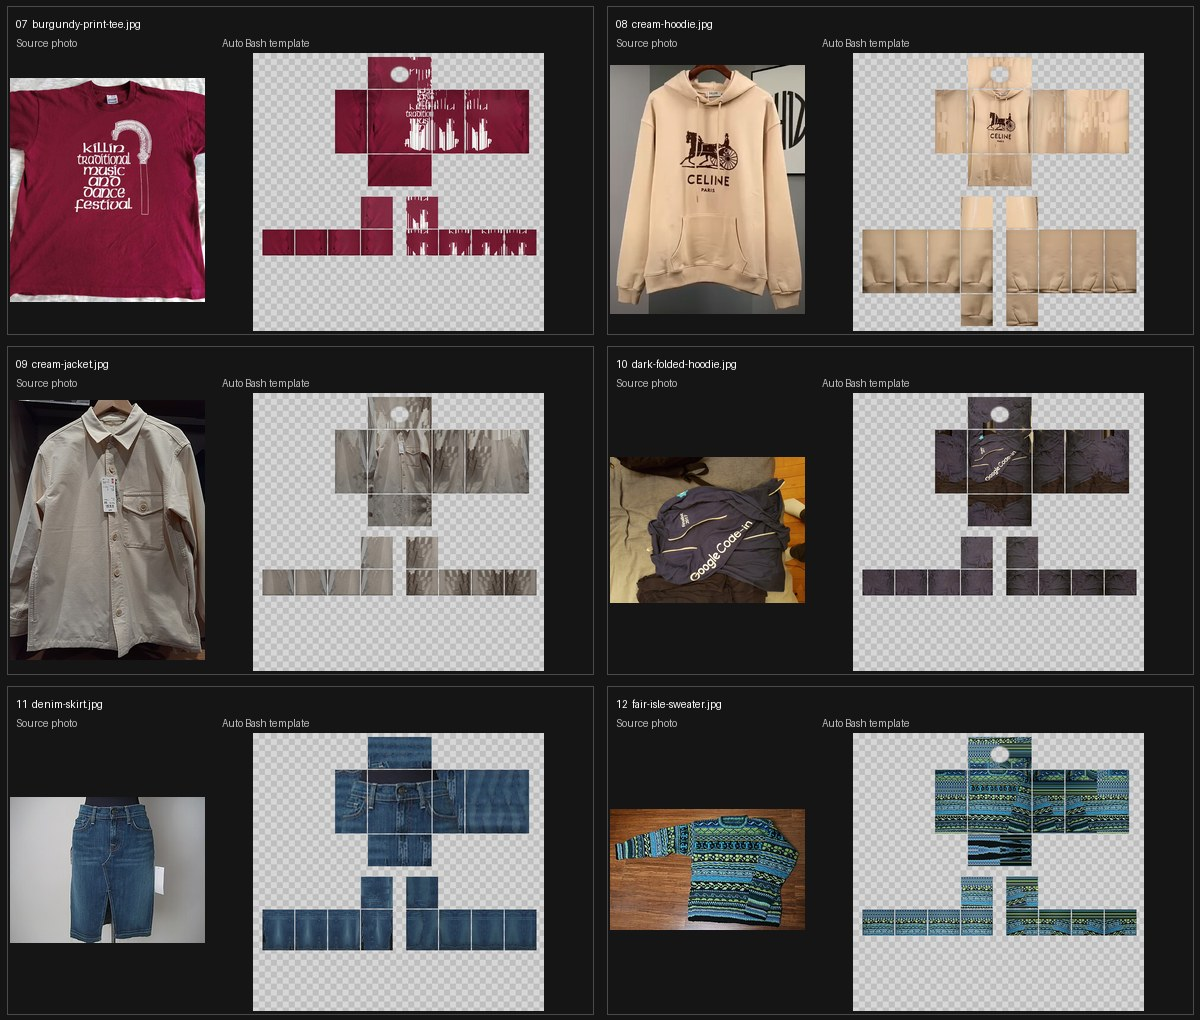
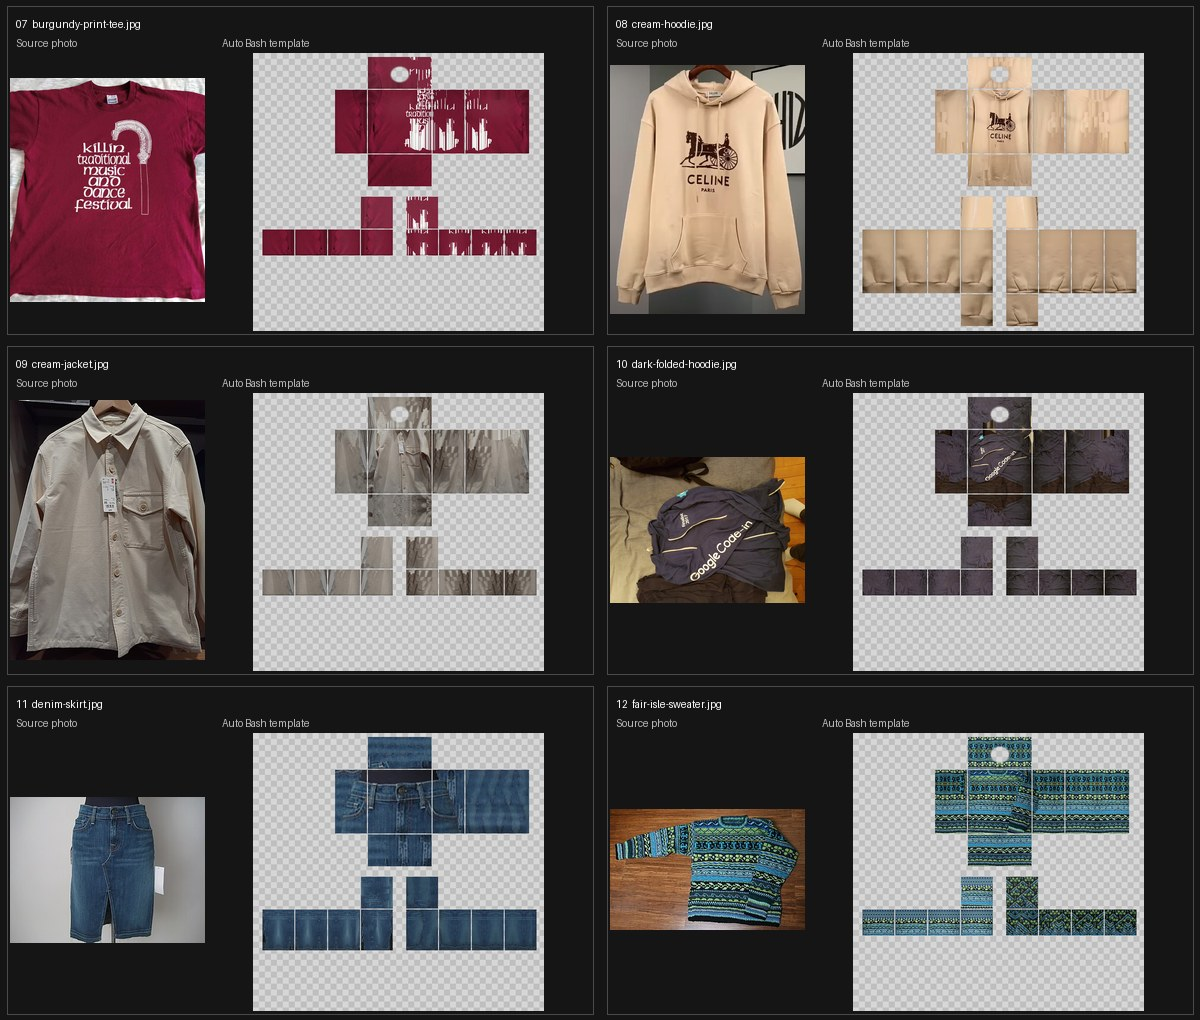
Preserve photographed patterns on inferred shirt panels

Changed region(s): [[0.7708, 0.699, 0.9558, 0.9422]]

diff --git a/backend/shirt_wrap.py b/backend/shirt_wrap.py
@@ -1,0 +1,142 @@
+"""Continue observed shirt fabric around inferred torso faces."""
+
+import cv2
+import numpy as np
+
+from autobash_core.autobash import apply_shading
+
+from .fabric_pattern import reflected_indices
+from .garment_parts import crop_silhouette, top_parts
+from .photos import PhotoError
+from .placement import FACES, LIMBS, FabricPatches, clone_cap, limb_faces, photograph, projected_piece
+from .quality import face_view
+
+DETAIL_ROWS = slice(24, 110)
+INFERRED_TORSO = ("left", "back", "right")
+
+
+def horizontal_detail(face: np.ndarray) -> np.ndarray:
+    return np.abs(np.diff(face[..., :3].astype(np.float32), axis=1)).mean(axis=(1, 2))
+
+
+def choose_swatch(front: np.ndarray) -> tuple[np.ndarray, int] | None:
+    """Find a sustained textured strip clear of the collar and placket."""
+    width = front.shape[1]
+    strips = (front[:, width // 9:width * 7 // 16], front[:, width * 9 // 16:width * 8 // 9])
+    candidates = []
+    for strip in strips:
+        opaque = (strip[..., 3] == 255)
+        supported = (opaque.mean(axis=1) >= 0.94)
+        visible = supported[DETAIL_ROWS]
+        if visible.mean() < 0.87:
+            continue
+        detail = horizontal_detail(strip[DETAIL_ROWS][visible])
+        if np.median(detail) >= 8 and (detail >= 6).mean() >= 0.72:
+            candidates.append((float(np.median(detail)), strip, supported))
+    if len(candidates) != len(strips):
+        return None
+    # Both sides show texture, so a solitary chest graphic cannot qualify as
+    # a print throughout the cloth. Keep the richer observed strip as donor.
+    _, strip, valid = max(candidates, key=lambda item: item[0])
+    top, bottom = np.flatnonzero(valid)[[0, -1]]
+    top = max(top, 28)  # Keep the photographed collar on its front face.
+    strip = strip[top:bottom + 1]
+    try:
+        if not (strip[..., 3] == 255).all():
+            strip = FabricPatches(strip).fill(strip)
+    except PhotoError:
+        return None
+    return strip, int(top)
+
+
+def replace_collapsed_sleeves(replacement: np.ndarray, template: np.ndarray,
+                             photo: np.ndarray, mask: np.ndarray, scale: float) -> set[tuple[str, str]]:
+    sizes = {limb: int(np.count_nonzero(face_view(template, limb, "front")[..., 3].any(axis=1)))
+             for limb in LIMBS}
+    # Full-length arms already have an independent cuff-fitting pass.
+    if not all(32 <= height <= 64 for height in sizes.values()):
+        return set()
+    try:
+        pixels, silhouette = crop_silhouette(photo.copy(), mask)
+        parts = top_parts(pixels, silhouette, "t_shirt", back=False, flat_tshirt=False)
+    except PhotoError:
+        return set()
+    repaired = set()
+    for limb, height in sizes.items():
+        front = face_view(template, limb, "front")[:height]
+        if limb not in parts.pieces or (horizontal_detail(front) < 8).mean() < 0.24:
+            continue
+        fabric = projected_piece(parts.photo, parts.pieces[limb], scale)
+        if (fabric[..., 3] == 255).sum() < 280:
+            continue
+        try:
+            faces = limb_faces(fabric, None, front.shape[1], height)
+            faces["up"] = clone_cap(fabric, faces["front"][0], FACES[limb, "up"][2:], bottom=False)
+        except PhotoError:
+            continue
+        for face, texture in faces.items():
+            target = face_view(replacement, limb, face)
+            target[:len(texture)] = texture
+            repaired.add((limb, face))
+    return repaired
+
+
+def continue_fabric(template: np.ndarray, photo: np.ndarray, mask: np.ndarray,
+                    *, left: int, top: int, scale: float, shading: float) -> None:
+    """Replace collapsed texture on an inferred wrap with same-scale pixel copies."""
+    front = face_view(template, "torso", "front")
+    height, width = front.shape[:2]
+    detail = horizontal_detail(front)[DETAIL_ROWS]
+    if not any(((detail >= 11)
+                & (horizontal_detail(face_view(template, "torso", side))[DETAIL_ROWS]
+                   < np.maximum(2.5, detail * 0.20))).mean() >= 0.28 for side in INFERRED_TORSO):
+        return
+
+    side_width = FACES["torso", "left"][2]
+    inside = cv2.erode(mask.astype(np.uint8), np.ones((5, 5), np.uint8)) > 0
+    photo = photo.copy()
+    photo[..., 3] = inside.astype(np.uint8) * 255
+    projected = photograph(photo, np.eye(2), scale, (side_width - left * scale, -top * scale),
+                            (width + 2 * side_width, height))
+    source = choose_swatch(projected[:, side_width:side_width + width])
+    if source is None:
+        return
+    swatch, first_row = source
+    rows = reflected_indices(np.arange(height) - first_row, len(swatch))
+    reflected = swatch[rows[:, None], reflected_indices(np.arange(2 * swatch.shape[1]), swatch.shape[1])]
+    ring_width = width + 2 * side_width
+    columns = np.arange(ring_width)[None, :] + np.arange(reflected.shape[1])[:, None]
+    columns %= reflected.shape[1]
+    # Fit one continuous texture around the entire inferred band. Using one
+    # column offset keeps the weave constant from shoulder to hem.
+    first, last = front[DETAIL_ROWS, -1, :3], front[DETAIL_ROWS, 0, :3]
+    cost = np.abs(reflected[DETAIL_ROWS, columns[:, 0], :3].astype(float) - first[:, None]).mean(axis=(0, 2))
+    cost += np.abs(reflected[DETAIL_ROWS, columns[:, -1], :3].astype(float) - last[:, None]).mean(axis=(0, 2))
+    band = reflected[:, columns[cost.argmin()]].copy()
+
+    # Keep contiguous visible fabric immediately past the front boundaries.
+    right = projected[:, :side_width]
+    left = projected[:, side_width + width:]
+    for observed, inferred, direction in ((left, band[:, :side_width], 1),
+                                         (right, band[:, -side_width:], -1)):
+        count = 12
+        observed = observed[:, ::direction][:, :count]
+        inferred = inferred[:, ::direction][:, :count]
+        valid = np.logical_and.accumulate(observed[..., 3] == 255, axis=1)
+        inferred[valid] = observed[valid]
+
+    replacement = np.zeros_like(template)
+    offset = 0
+    for side in INFERRED_TORSO:
+        face = face_view(replacement, "torso", side)
+        face[:] = band[:, offset:offset + face.shape[1]]
+        offset += face.shape[1]
+    for face_name, row_start in (("up", 0), ("down", height - FACES["torso", "down"][3])):
+        cap = face_view(replacement, "torso", face_name)
+        cap[:] = band[row_start:row_start + cap.shape[0], side_width:side_width + width]
+        cap[..., 3] = face_view(template, "torso", face_name)[..., 3]
+    repaired = replace_collapsed_sleeves(replacement, template, photo, mask, scale)
+    repaired.update(("torso", side) for side in (*INFERRED_TORSO, "up", "down"))
+    replacement = apply_shading(replacement, shading)
+    for part, face in repaired:
+        face_view(template, part, face)[:] = face_view(replacement, part, face)

diff --git a/backend/test_quality.py b/backend/test_quality.py
@@ -11,6 +11,7 @@ from backend.photos import prepare_cutout
 from backend.placement import CLASSIC_SIZE, FACES
 from backend.processing import inspect
 from backend.quality import blend_seams, face_view, fill_unseen, finish_images, inspect_quality
+from backend.shirt_wrap import continue_fabric
 from backend.worn_shirts import recover_worn_template
 
 SAMPLES = Path(__file__).resolve().parents[1] / "samples"
@@ -38,6 +39,44 @@ class QualityTests(unittest.TestCase):
         seed[:25, :31] = source[:25, :31]
         aligned = pattern_fill(source, seed.shape[:2], 0, seed)
         np.testing.assert_array_equal(aligned[:25, :31], seed[:25, :31])
+
+    def test_pattern_wrap_keeps_the_front_opacity_and_source_pixel_scale(self):
+        rows, columns = np.mgrid[:128, :152]
+        photo = np.full((128, 152, 4), 255, dtype=np.uint8)
+        photo[..., :3] = np.where(((rows % 5 < 2) ^ (columns % 6 < 3))[..., None], 49, 192)
+        photo[34:84, 69:84, :3] = (200, 80, 65)
+        template = sheet()
+        front = face_view(template, "torso", "front")
+        front[:] = photo[:, 12:140]
+        for face in ("left", "back", "right"):
+            face_view(template, "torso", face)[:] = front[:, :1]
+        face_view(template, "torso", "up")[24:40, 48:80, 3] = 0
+        before = template.copy()
+
+        continue_fabric(template, photo, np.ones(photo.shape[:2], dtype=bool),
+                        left=12, top=0, scale=1., shading=0.)
+
+        np.testing.assert_array_equal(front, face_view(before, "torso", "front"))
+        np.testing.assert_array_equal(template[..., 3], before[..., 3])
+        back = face_view(template, "torso", "back")
+        self.assertEqual(set(np.unique(back[..., 0])), {49, 192})
+        np.testing.assert_array_equal(back[36:100, 30:60], back[41:105, 30:60])
+        self.assertEqual(float(np.abs(np.diff(back[40, :, 0].astype(int))).max()), 143.0)
+        self.assertEqual(template[0, 0, 3], 0)
+
+    def test_localized_print_does_not_trigger_pattern_wrap(self):
+        photo = np.full((128, 128, 4), 255, dtype=np.uint8)
+        photo[..., :3] = (20, 34, 90)
+        pattern = np.indices((42, 46)).sum(axis=0) % 2
+        photo[30:72, 41:87, :3] = 40 + 200 * pattern[..., None]
+        template = sheet()
+        face_view(template, "torso", "front")[:] = photo
+        before = template.copy()
+
+        continue_fabric(template, photo, np.ones(photo.shape[:2], dtype=bool),
+                        left=0, top=0, scale=1., shading=0.5)
+
+        np.testing.assert_array_equal(template, before)
 
     def test_edge_blending_preserves_alpha_gutters_and_face_interiors(self):
         image = sheet()

diff --git a/backend/test_shirt_engine.py b/backend/test_shirt_engine.py
@@ -33,14 +33,20 @@ class ShirtEngineTests(unittest.IsolatedAsyncioTestCase):
                 self.assertEqual(front.tobytes(), back.tobytes())
             self.assertEqual(shading, 0.4)
             paths.extend((front_path, back_path))
-            return template, {"lm": {"arms": {"rarm": {"long": True}, "larm": {"long": True}}}}
+            return template, {
+                "mask": np.ones((373, 352), dtype=bool),
+                "lm": {"arms": {"rarm": {"long": True}, "larm": {"long": True}},
+                       "x0": 50, "front_top": 40, "scale": 0.65},
+            }
 
-        with patch.object(autobash, "make_shirt", side_effect=render) as supplied_engine:
+        with (patch.object(autobash, "make_shirt", side_effect=render) as supplied_engine,
+              patch("backend.shirt_engine.continue_fabric") as inferred_wrap):
             events = [json.loads(line) async for line in process_events(
                 "auto", [("front", photo), ("back", photo)], shading=0.4
             )]
 
         supplied_engine.assert_called_once()
+        inferred_wrap.assert_not_called()
         self.assertTrue(all(not path.exists() for path in paths))
         self.assertEqual(events[-1]["type"], "result", events[-1])
         payload = events[-1]["template"]

diff --git a/backend/shirt_engine.py b/backend/shirt_engine.py
@@ -15,6 +15,7 @@ from .garment_parts import crop_silhouette, fitted_top
 from .placement import FACES, LIMBS, limb_textures, place_template
 from .photos import COLOR_PROFILE, PhotoError
 from .quality import face_view, rgba
+from .shirt_wrap import continue_fabric
 from .worn_shirts import recover_worn_template
 
 # The engine loads a shared rembg session lazily. Serialize shirt renders
@@ -122,6 +123,11 @@ def make_core_shirt(front: ShirtPhoto, back: ShirtPhoto | None, shading: float,
         profile = "t_shirt"
     elif fit_product and "mask" in debug:
         profile = fit_product_shape(image, debug["mask"], template, profile, shading, back is not None)
+    landmarks = debug["lm"]
+    if fit_product and back is None and profile != "sleeveless" and "mask" in debug and "scale" in landmarks:
+        continue_fabric(template, np.asarray(image.convert("RGBA")), debug["mask"],
+                        left=landmarks["x0"] + 2, top=landmarks["front_top"],
+                        scale=landmarks["scale"], shading=shading)
     png = BytesIO()
     Image.fromarray(template).save(png, format="PNG", icc_profile=COLOR_PROFILE.tobytes())
     return png.getvalue(), profile

diff --git a/samples/out/report.md b/samples/out/report.md
@@ -2,7 +2,7 @@
 
 Auto Bash attempted all 30 photos through the same pipeline as the web app and returned a template for each. **3 of 30** reached at least 4/5 on all nine criteria. **The quality gate remains open.**
 
-The first pass returned 24 templates and the previous published pass returned 29. The fitted denim skirt now renders, the striped tank keeps its arm faces transparent, and visible cuffs are retained on several long-sleeve tops. The earlier blue tee lettering, patterned worn shirt sleeves, and full-length denim leg outputs are still included.
+The first pass returned 24 templates and skirt placement brought the total to 30. This pass restores repeating motifs on the inferred torso panels of the pink button-up and the Fair Isle sweater. The repair uses photographed fabric at the same scale, keeps the main front design in place, and repairs streaked short sleeves where the source shows enough sleeve fabric.
 
 The scores below are visual judgments on a 1–5 scale. The in-app estimate is a separate automated confidence score. The review uses the four original inputs and 26 [attributed Wikimedia Commons photos](../golden/SOURCES.md), with single garments prioritized.
 
@@ -21,12 +21,12 @@ The scores below are visual judgments on a 1–5 scale. The in-app estimate is a
 | [cream-jacket](../golden/cream-jacket.jpg) · [PNG](cream-jacket.png) | 2 | 2 | 3 | 2 | 2 | 3 | 3 | 3 | 2 | 75% | The jacket stays a top. Arm length and copied tags need work. |
 | [dark-folded-hoodie](../golden/dark-folded-hoodie.jpg) · [PNG](dark-folded-hoodie.png) | 2 | 2 | 2 | 2 | 2 | 3 | 2 | 3 | 2 | 81% | The folded front twists the lettering. The folds and concealed sleeves limit placement. |
 | [denim-skirt](../golden/denim-skirt.jpg) · [PNG](denim-skirt.png) | 3 | 3 | 3 | 3 | 3 | 3 | 4 | 4 | 3 | 81% | The waistband, fly and denim hem read. The two leg fronts share the source panel, with the skirt slit approximated by the avatar geometry. |
-| [fair-isle-sweater](../golden/fair-isle-sweater.jpg) · [PNG](fair-isle-sweater.png) | 2 | 2 | 3 | 2 | 2 | 3 | 3 | 4 | 2 | 70% | The knit colors are visible. The folded sleeve is shortened and the stripes break across joins. |
+| [fair-isle-sweater](../golden/fair-isle-sweater.jpg) · [PNG](fair-isle-sweater.png) | 2 | 2 | 3 | 3 | 3 | 3 | 3 | 4 | 3 | 67% | The knit bands now remain visible across the sides and back. The folded sleeve still limits placement. |
 | [folded-denim](../golden/folded-denim.jpg) · [PNG](folded-denim.png) | 1 | 1 | 3 | 2 | 2 | 3 | 2 | 3 | 1 | 80% | The folded jeans are mistaken for a shirt. Neither full leg is visible. |
 | [gray-snap-shirt](../golden/gray-snap-shirt.jpg) · [PNG](gray-snap-shirt.png) | 2 | 2 | 3 | 2 | 2 | 3 | 3 | 3 | 2 | 78% | Central buttons remain. The arms are shortened and the side joins pick up background. |
 | [green-knit](../golden/green-knit.jpg) · [PNG](green-knit.png) | 2 | 3 | 3 | 3 | 3 | 3 | 3 | 4 | 2 | 78% | Both cuffs and sleeve patterns are visible. The photographed rear sits on the front and the inferred panel still repeats knit lines. |
 | [navy-shirt-back](../golden/navy-shirt-back.jpg) · [PNG](navy-shirt-back.png) | 2 | 3 | 4 | 3 | 3 | 3 | 2 | 4 | 2 | 81% | The rear-only view becomes the front. The sleeves are shortened. |
-| [pink-print-button-up](../golden/pink-print-button-up.jpg) · [PNG](pink-print-button-up.png) | 3 | 3 | 3 | 2 | 2 | 3 | 3 | 4 | 2 | 67% | The front pattern and color survive. Side and arm bands turn the print into visible streaks. |
+| [pink-print-button-up](../golden/pink-print-button-up.jpg) · [PNG](pink-print-button-up.png) | 3 | 3 | 3 | 3 | 3 | 3 | 4 | 4 | 3 | 64% | Whole motifs replace side and back streaks. Both short sleeves use printed fabric and some mirrored joins remain visible. |
 | [plaid-button-up](../golden/plaid-button-up.jpg) · [PNG](plaid-button-up.png) | 2 | 2 | 3 | 2 | 2 | 3 | 3 | 3 | 2 | 55% | The collar and front checks are recognizable. Side and sleeve checks do not align. |
 | [raw-denim-jeans](../golden/raw-denim-jeans.jpg) · [PNG](raw-denim-jeans.png) | 4 | 4 | 4 | 4 | 4 | 4 | 4 | 4 | 4 | 80% | The waist and full-length dark legs are clear. The quieter denim wraps consistently. |
 | [red-puffer](../golden/red-puffer.jpg) · [PNG](red-puffer.png) | 3 | 3 | 3 | 3 | 3 | 3 | 3 | 4 | 2 | 80% | The arms reach the cuffs and the zipper is visible. Copied quilting on the upper caps remains apparent. |
@@ -41,11 +41,11 @@ The scores below are visual judgments on a 1–5 scale. The in-app estimate is a
 | [worn-checkered-pants](../golden/worn-checkered-pants.jpg) · [PNG](worn-checkered-pants.png) | 1 | 1 | 1 | 2 | 2 | 2 | 1 | 2 | 1 | 76% | Auto picks shirt mode, keeping trouser fabric in torso and arm panels. |
 | [white-shirt-on-body-test](../white%20shirt%20on%20body%20test.JPG) · [PNG](white-shirt-on-body-test.png) | 3 | 3 | 3 | 3 | 3 | 3 | 4 | 4 | 3 | 47% | Both patterned sleeves and the full photographed print are visible. Small sleeve fragments remain at the torso edge. |
 
-16 outputs still score below 3 on placement, edges, or seams. Folded jeans and worn checkered pants still land in shirt mode. Rear-only photos, obscured clothes, hood placement, and joins in patterned fabric continue to need work.
+15 outputs still score below 3 on placement, edges, or seams. Folded jeans and worn checkered pants still land in shirt mode. Photos showing the back, obscured clothes, hood placement, and joins in difficult patterns continue to need work.
 
 ## Visual review
 
-Each sheet pairs the source photo with the rendered template. Use the PNG link in the table for the native-size export. See enlarged previews of the [denim skirt](review/denim-skirt.jpg), [striped tank](review/striped-tank.jpg), and [long-sleeve red sweater](review/red-sweater.jpg).
+Each sheet pairs the source photo with the rendered template. Use the PNG link in the table for the native-size export. See enlarged previews of the [pink button-up](review/pink-print-button-up.jpg), [Fair Isle sweater](review/fair-isle-sweater.jpg), and [denim skirt](review/denim-skirt.jpg).
 
 ![Sample review sheet 1 with six paired source and template previews](review/stage-8-board-1.jpg)
 

diff --git a/README.md b/README.md
@@ -45,6 +45,7 @@ Classic Shirts use the supplied model by default. Allow the first run to downloa
 - Choose **Auto** for a template suggestion or select **Shirt**, **Pants**, or **T-Shirt** yourself. The processing checklist updates while the server removes the background, cuts out the parts, and places them.
 - The **Result** screen shows the template next to your photo, with a flat front and back avatar preview beneath it. Use **Photo preview** to inspect the cutouts and **Show regions** to check where the parts landed. Classic templates use a 585 × 559 canvas. T-shirt graphics use a 512 × 512 canvas.
 - Classic Shirts use the supplied Auto Bash core. Clear cuffs guide long-sleeve placement, and detected tanks leave the arm faces transparent. Fitted skirts with a short center slit use a Classic Pants template with the photographed front spanning both upper legs. When there's no pants back photo, the app builds a back from real leg fabric and offers another version. Extra angles are available for cutout preview. [Auto Bash core](autobash_core/README.md)
+- When a patterned shirt comes from a single clear photo, Auto Bash can repair streaks on the inferred sides and back using wider pieces of the photographed fabric. It keeps the front design in place and uses visible sleeve fabric to repair short sleeves when enough of the sleeves is in frame.
 - **Quick-Fix** updates the template and avatar preview together. Adjust sharpness, brightness and saturation, swap a fabric color, remove a prominent logo, or choose a style. For a classic template, adjust the placement engine's shading or rebuild the back with sampled fabric. For a Classic Shirt, you can also change sleeve length. **Reset adjustments** restores the default settings. **Re-run auto placement** processes the original uploads again.
 - The **Catalog checklist** checks the current image for size, PNG format, transparency, and empty required regions. It reminds you to check logo permissions and has copy buttons for a suggested name, description, and tags. **Download PNG** saves the current result at its original template size with transparency and an sRGB profile.
 - **Home** opens Auto Bash or Studio and shows the six most recent projects. **My Projects** lets you search, organize projects into folders, duplicate them, or delete them. Studio autosaves projects in IndexedDB in the current browser.

diff --git a/AGENTS.md b/AGENTS.md
@@ -400,4 +400,4 @@ A full photobash editor. It should feel like a simple, black-themed Photopea/Pho
 - [x] Stage 5 — Result shows flat front and back avatar previews. Quick-Fix edits update both previews and the PNG export. The catalog checklist validates the current image and offers copyable listing text. Verified with backend and Chromium tests and reviewed at desktop and phone sizes.
 - [x] Stage 6 — Added Home, IndexedDB projects, and the layered Studio editor with photo cutting, region placement and wrapping, history, and PNG export. Edit in Studio opens the current Auto Bash result as one editable layer per populated face and keeps its source photos and cutouts in the tray. The supplied engine returns a rendered template, so its internal strokes remain part of each face. Verified with backend and Chromium tests and reviewed on desktop and phone.
 - [x] Stage 7 — Added the batch review queue, matching sets, colorways, starter garment bases, template restyling, artwork checks and replacement, ZIP and before/after export, and the Help center. Matching templates sample fabric outside flagged artwork. The artwork check flags visual candidates for review. Verified with backend and Chromium tests and inspected desktop and phone previews.
-- [ ] Stage 8 — Added the 30-photo review, Studio keyboard controls, accessibility checks, a smaller Result bundle, and Docker Compose. The follow-up adds fitted skirt placement, sleeveless tops, and better cuff recovery. All 30 photos now render. Folded and worn garment selection, hood placement, and pattern joins still need work to reach 4/5 across all nine criteria. See `samples/out/report.md`.
+- [ ] Stage 8 — Added the 30-photo review, Studio keyboard controls, accessibility checks, a smaller Result bundle, and Docker Compose. Follow-up passes added fitted skirts, sleeveless tops, better cuff recovery, and same-scale fabric fills for inferred panels on patterned shirts. All 30 photos render. Folded and worn garment selection, hood placement, and difficult pattern joins still need work to reach 4/5 across all nine criteria. See `samples/out/report.md`.
